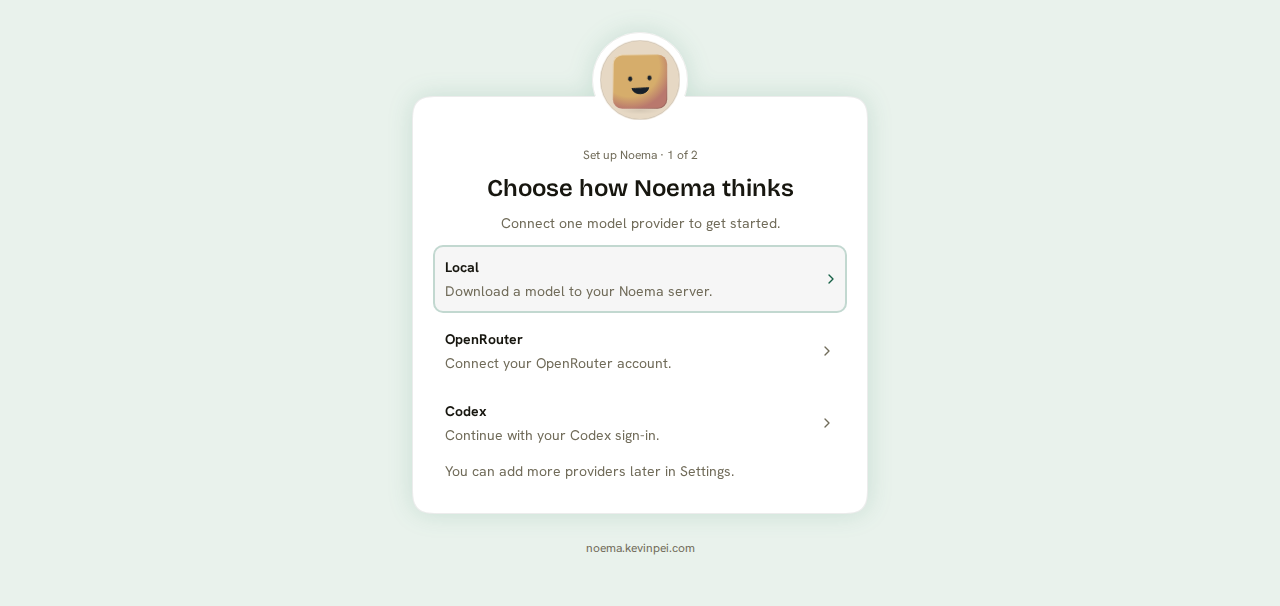
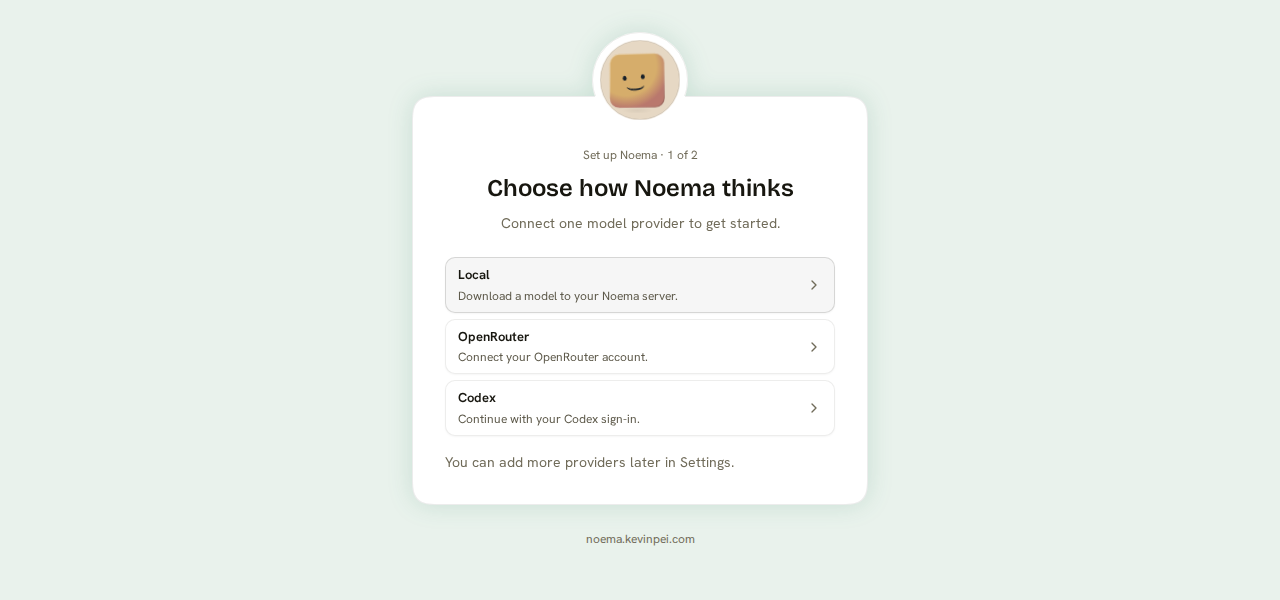
docs: match provider choices to Task list cards

diff --git a/docs/plans/2026-09-04-supporting-ui/mocks.css b/docs/plans/2026-09-04-supporting-ui/mocks.css
@@ -78,16 +78,15 @@ summary { min-height: 44px; padding-block: var(--spacing-3); cursor: default; co
 details p { color: var(--muted-foreground); margin-top: var(--spacing-2); }
 details .fact { margin-top: 0; }
 details code { font-family: var(--font-family-code); overflow-wrap: anywhere; }
-.options { display: grid; gap: var(--spacing-1); margin: calc(-1 * var(--spacing-3)); }
-/* Row insets extend into the gutter; negative margins keep text on the body rhythm. */
-/* Offline ListItem reference: label/description/endContent; one whole-row action. */
-.option { display: flex; align-items: center; justify-content: space-between; gap: var(--spacing-3); background: transparent; border: 0; border-radius: var(--radius-element); text-align: left; padding: var(--spacing-3); min-height: 48px; transition: background var(--motion-spring-micro), box-shadow var(--motion-spring-micro); }
-.option:hover, .option:focus-visible { background: var(--surface-hover); box-shadow: var(--shadow-inset-hover); }
-.option:active { background: var(--noema-pine-50); box-shadow: var(--shadow-inset-selected); }
-.option-arrow { width: var(--spacing-4); height: var(--spacing-4); flex: none; color: var(--muted-foreground); transition: color var(--motion-spring-micro), transform var(--motion-spring-micro); }
-.option:hover .option-arrow, .option:focus-visible .option-arrow { color: var(--noema-pine-600); transform: translateX(var(--spacing-1)); }
-.option-copy { display: grid; gap: var(--spacing-1); }
-.option-copy small { color: var(--muted-foreground); font: inherit; }
+/* ListCardButton/ListCardLink frame and TasksViews text metrics, copied for offline review. */
+.options { display: grid; gap: var(--spacing-1-5); }
+.option { display: flex; align-items: center; justify-content: space-between; gap: var(--spacing-3); min-width: 0; background: var(--noema-surface-card); border: 1px solid var(--noema-border-subtle); border-radius: var(--radius-element); color: var(--noema-text-secondary); text-align: start; padding: var(--spacing-2) var(--spacing-3); min-height: 48px; box-shadow: 0 1px 2px color-mix(in srgb, black 4%, transparent); }
+.option:hover { border-color: var(--noema-border-default); background: var(--noema-surface-hover); }
+.option:focus-visible { outline: 2px solid var(--noema-pine-500); outline-offset: 1px; }
+.option-arrow { width: var(--spacing-4); height: var(--spacing-4); flex: none; color: var(--muted-foreground); }
+.option-copy { display: grid; gap: var(--spacing-1); min-width: 0; }
+.option-copy strong { color: var(--noema-text-primary); font-size: 13px; font-weight: 650; line-height: 1.35; }
+.option-copy small { color: var(--noema-text-secondary); font-size: 12px; line-height: 1.35; }
 .facts { display: grid; gap: var(--spacing-3); }
 .fact { display: flex; flex-wrap: wrap; justify-content: space-between; gap: var(--spacing-2); }
 .fact span:last-child { color: var(--muted-foreground); }
@@ -123,5 +122,5 @@ progress::-moz-progress-bar { background: var(--primary); }
 }
 @media (prefers-reduced-motion: reduce) {
   .spinner, #screen, .status.success path { animation: none; }
-  .primary, .option, .option-arrow { transition: none; }
+  .primary { transition: none; }
 }

diff --git a/docs/plans/2026-09-04-supporting-ui/mocks.js b/docs/plans/2026-09-04-supporting-ui/mocks.js
@@ -90,7 +90,7 @@
       id: 'provider-choice', group: 'Model setup', label: 'Choose provider', title: 'Choose how Noema thinks', step: 'Set up Noema · 1 of 2',
       intro: 'Connect one model provider to get started.',
       body: `<section class="options" aria-label="Model providers">${option('Local', 'Download a model to your Noema server.', 'local-ready', 'Local')}${option('OpenRouter', 'Connect your OpenRouter account.', 'provider-openrouter', 'OpenRouter')}${option('Codex', 'Continue with your Codex sign-in.', 'provider-codex', 'Codex')}</section>` + note('You can add more providers later in Settings.'),
-      intent: 'Reuse Astryx List and ListItem, as Settings does. Use the existing Noema hover and focus tokens. Descriptions must wrap on phones.',
+      intent: 'Use ListCardButton from components/ListCardLink.tsx. Match the Task card frame and text metrics, with wrapping descriptions and one action per card.',
       constraint: 'Account and payment requirements must come from verified provider information. Do not invent a universal recommendation.'
     },
     {

diff --git a/docs/plans/2026-09-04-supporting-ui/README.md b/docs/plans/2026-09-04-supporting-ui/README.md
@@ -64,9 +64,10 @@ Use the existing setup frame, connection surfaces, and Astryx controls during im
 - Assign one spacing owner per boundary: 8 pixels inside the header, 16 between body groups, and 24 before primary actions.
 - Keep label/control gaps at 6 pixels. Do not add child margins to a parent stack gap.
 - Reserve 48 pixels above card content for the avatar junction. Use 32-pixel desktop insets and 24-pixel phone bottom padding.
-- Use Astryx `List` and `ListItem` for provider choices, with wrapping descriptions and a trailing chevron.
-- Settings already uses these components. Tasks uses `ListCardLink`; retain its familiar whole-row feedback.
-- Match the preview’s inset hover, pressed fill, and visible keyboard focus through existing theme tokens.
+- Use `ListCardButton` from `components/ListCardLink.tsx` for provider choices. It shares the Task card frame.
+- Match Task card borders, white fill, small shadow, 8/12-pixel padding, 6-pixel list gaps, and 13/12-pixel text metrics.
+- Reuse its hover border/background and external focus outline. Do not add the earlier inset ring or moving chevron.
+- Keep descriptions wrapped and each card a single action.
 - Keep model name, download size, and computation location visible. Disclose license, format, runtime, and exact file.
 - Give one action primary emphasis. Keep alternatives quiet and access consequences visible.
 - Use touch controls around 48 pixels high without making all product controls larger.
@@ -129,7 +130,7 @@ Estimates below are maximum net additions, not targets. Reassess against current
 | --- | --- | --- | --- |
 | 1. Access and recovery | `auth/AuthGate.tsx`, `components/shell/SetupFrame.tsx`, current theme, `components/shell/AppBootBoundary.tsx` | +160 production lines; no new UI tests | Recovery must work during native sign-in and PWA reauthentication; preserve session rules and focus |
 | 2. Connection pages | `components/onboarding/AuthAttempt.tsx`, server callback and consent renderers | +220 production lines; up to one server unit regression test | Every result must state the true access outcome and return safely |
-| 3. Setup | `components/onboarding/Onboarding.tsx`, `components/onboarding/ModelSetup.tsx`, Astryx `List`/`ListItem`, existing model preference selectors | +120 production lines; no new UI tests | Defaults remain drafts; all assignments remain editable; local and cloud paths remain complete |
+| 3. Setup | `components/onboarding/Onboarding.tsx`, `components/onboarding/ModelSetup.tsx`, `components/ListCardLink.tsx` (`ListCardButton`), existing model preference selectors | +120 production lines; no new UI tests | Defaults remain drafts; all assignments remain editable; local and cloud paths remain complete |
 
 Paths above are relative to `apps/web/src` unless identified as server files.
 At this baseline, server renderers live in `crates/noema-server/src/web/router.rs` and `native_oauth.rs`.

diff --git a/docs/plans/2026-09-04-supporting-ui/validation.md b/docs/plans/2026-09-04-supporting-ui/validation.md
@@ -10,7 +10,7 @@ Scope: the saved design gallery. These results do not certify the production flo
 - Network requests were blocked during review. The gallery requested no remote resources.
 - All 33 states rendered at desktop, 390-pixel, and 320-pixel preview widths.
 - The 99 layout checks found no content outside the preview width and no text overflow.
-- Row hit areas extend into their reserved gutters and remain inside the viewport.
+- Provider cards stay within the content width and use the Task list’s six-pixel gap.
 - The expanded model form also fit a physical 320-pixel browser viewport.
 - All action targets and documented screen links resolved.
 - Keyboard activation opened recovery and focused the code input.
@@ -23,7 +23,8 @@ Scope: the saved design gallery. These results do not certify the production flo
 - Model review showed resolved example model names and their jobs, without repeated “Recommended” values.
 - OpenRouter, Codex, and Local model summaries passed nine focused layout checks across the three preview widths.
 - Each provider retained all nine assignments under customization. Changed model choices regrouped the summary immediately.
-- Provider rows showed distinct hover and pressed feedback. Keyboard focus showed a solid outline.
+- Provider cards matched ListCardButton borders, padding, radius, shadow, hover fill, and external keyboard focus outline.
+- Provider labels and descriptions matched the Task list’s existing text metrics; descriptions wrapped on phones.
 - Enter on the Local row opened local setup. Each row remains one action.
 - Human intervention examples, layout code, and their screenshot were removed from the gallery.
 - Service callback results remained separate pages. Success copy did not imply that connection policy was complete.
@@ -46,7 +47,8 @@ Scope: the saved design gallery. These results do not certify the production flo
 
 - [Shared avatar/card surface, desktop](screenshots/proposed-login-desktop.png)
 
-- [Provider row hover, desktop](screenshots/proposed-providers-hover-desktop.png)
+- [Provider card hover, desktop](screenshots/proposed-providers-hover-desktop.png)
+- [Provider cards, phone](screenshots/proposed-providers-phone.png)
 - [Expanded model details, phone](screenshots/proposed-local-details-phone.png)
 - [Setup complete, desktop](screenshots/proposed-complete-desktop.png)
 - [Native consent, desktop](screenshots/proposed-consent-desktop.png)
